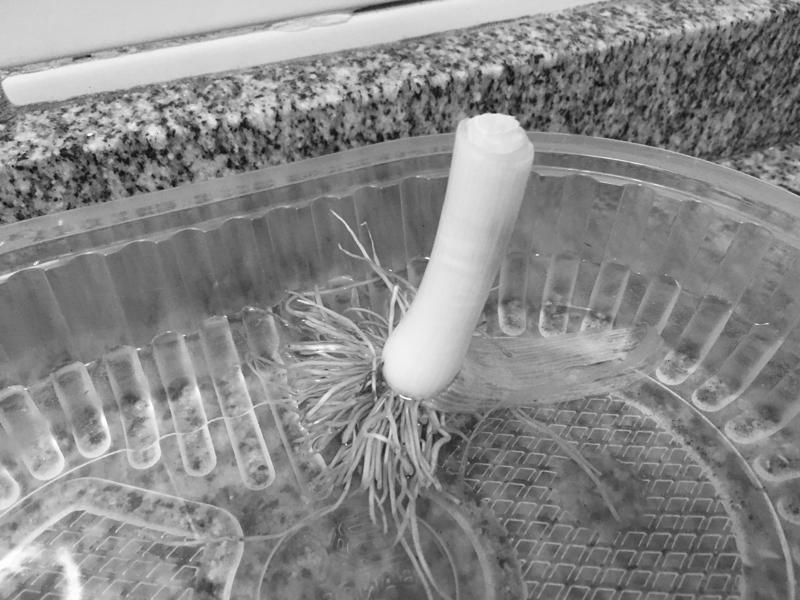
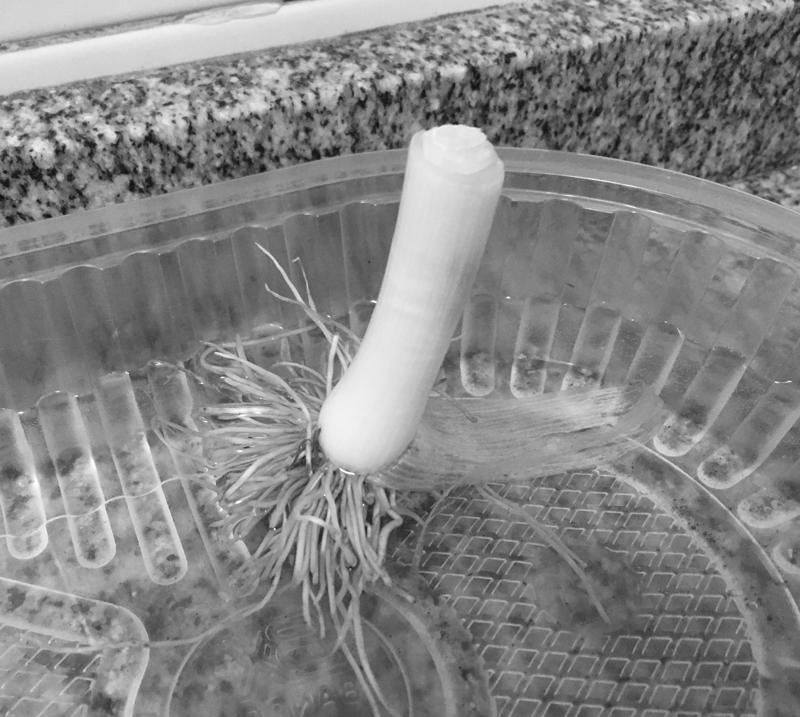
Upload Sun May 23 01:09:15 -03 2021

diff --git a/docs/log_2021-05-22.html b/docs/log_2021-05-22.html
@@ -100,7 +100,7 @@ Having eaten and all, I pickled some onions and peppers and
 left them in a cupboard to marinate. In a week or two they'll
 be ready to eat.
 
-<div class="bigimg"><img src ="images/c_Y43C23.jpg" title="Y43C23" alt="Image: Y43C23"><small>— Y43C23 (b&w version)  (JPEG) - <a href="images/Y43C23.JPG" target=_blank>view original</a> (2271 KiB, JPG)</small></div>
+<div class="bigimg"><img src ="images/c_Y43C23.jpg" title="Y43C23" alt="Image: Y43C23"><small>— Y43C23 (b&w version)  (JPEG) - <a href="images/Y43C23.JPG" target=_blank>view original</a> (1805 KiB, JPG)</small></div>
 
 I'm growing a leek. The rest of it went into the soup. Once it grows
 new roots I'll plant it in a pot.
